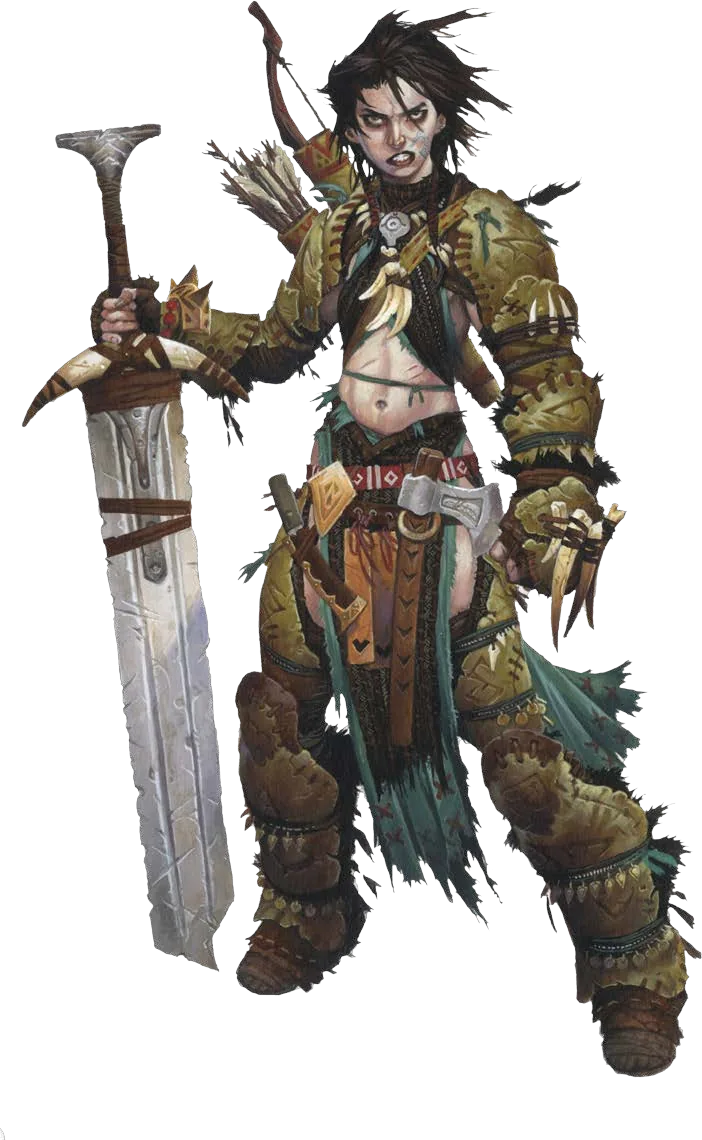
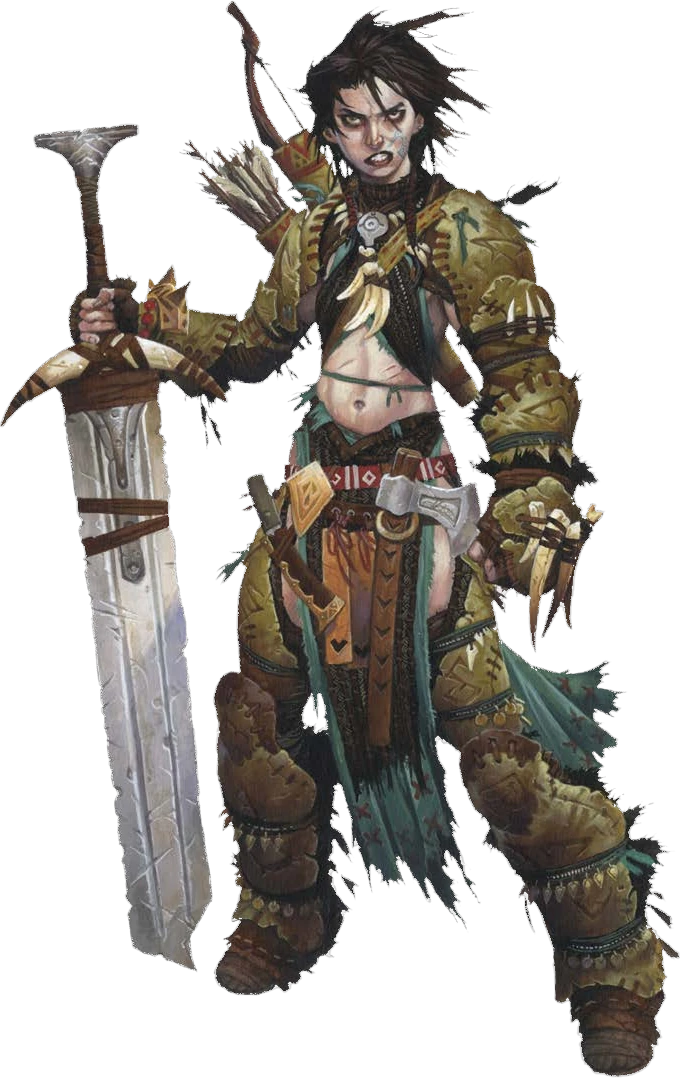
Adding debug log to record my learnings and also updating the barbarian art to ensure the new approach to updating assets works as intended

diff --git a/debugLog.md b/debugLog.md
@@ -1,0 +1,33 @@
+# RollBound Debug Log
+
+Hello! I am writing this log to keep track of the bugs I have caught, my reasoning to fix them, and what next steps I took for the project to improve.
+
+## Demo Account
+
+L
+
+## Character Builder
+
+This extensive feature was an initial part of my capstone project and it is crucial that it is not only now optimized for the Pathfinder ruleset, but elevated from just a form. I am elated at how it has turned out, granted it didn't come with some issues to iron out!
+
+For starters, when you made your selections, you could not reset your character from scratch and this was a massive pain point. So we added an option that I believe resets the cache on the client side, but now it works. This is something I want to understand how it works a bit more clearly.
+
+## Character Sheet Export
+
+I thought a super cool feature would be to have the option to dowload your character as a PDF file. So as I explored this and built it out, we ran into some issues with using a non-fillable version of the file where some fields were hidden and things were not lining up in their designated spaces. Thankfully a user in the community created a fillable version and we were able to debug some of the issues we encountered.
+
+Another problem that occured was that when you clicked on the button, you would automatically download the PDF file instead of viewing it first. This makes for a bad experience and the first iteration of this had the user open a separate page and then had to click back into the initial tab where their character lived for the information to fill out.
+
+These were both fixed, and while I try to understand how that works specifically and effeciently, it is a feature I am very happy to have in this project.
+
+## Character Art
+
+So the first thing here is that we wanted to make sure that these files are being referenced in the assets folder compared to in the code itself. After taking a look at the file structure, I noticed this issue and wanted to make sure that this wasn't a pain in the future. That way also, when we add more ancestries and classes, the art will be much easier to add and less dependent on the code.
+
+Additionally, there were several issues with padding and spacing, so I made some adjustments to the image sizes and icon sizes so that everything is in the same format and will serve as a template for future additions, while also making this generally more pleasing to the eye.
+
+## Scalability
+
+I had Claude evaluate some opportunity areas on where the project could improve.
+
+## AWS S3 Buckets
